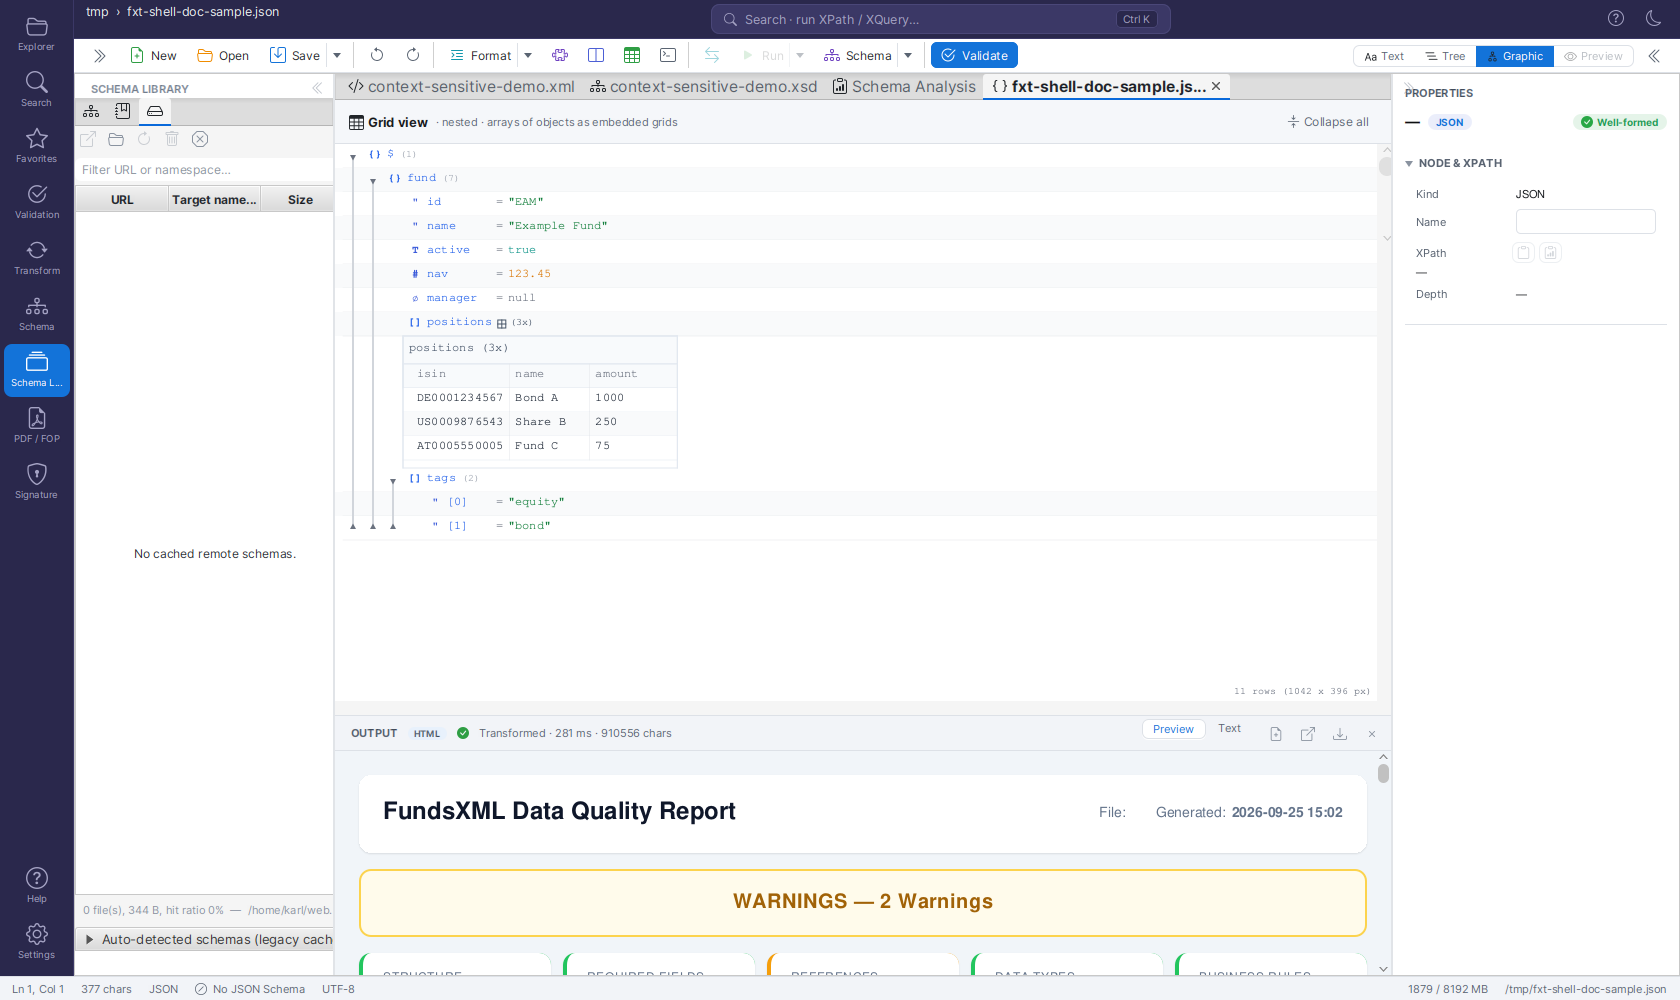
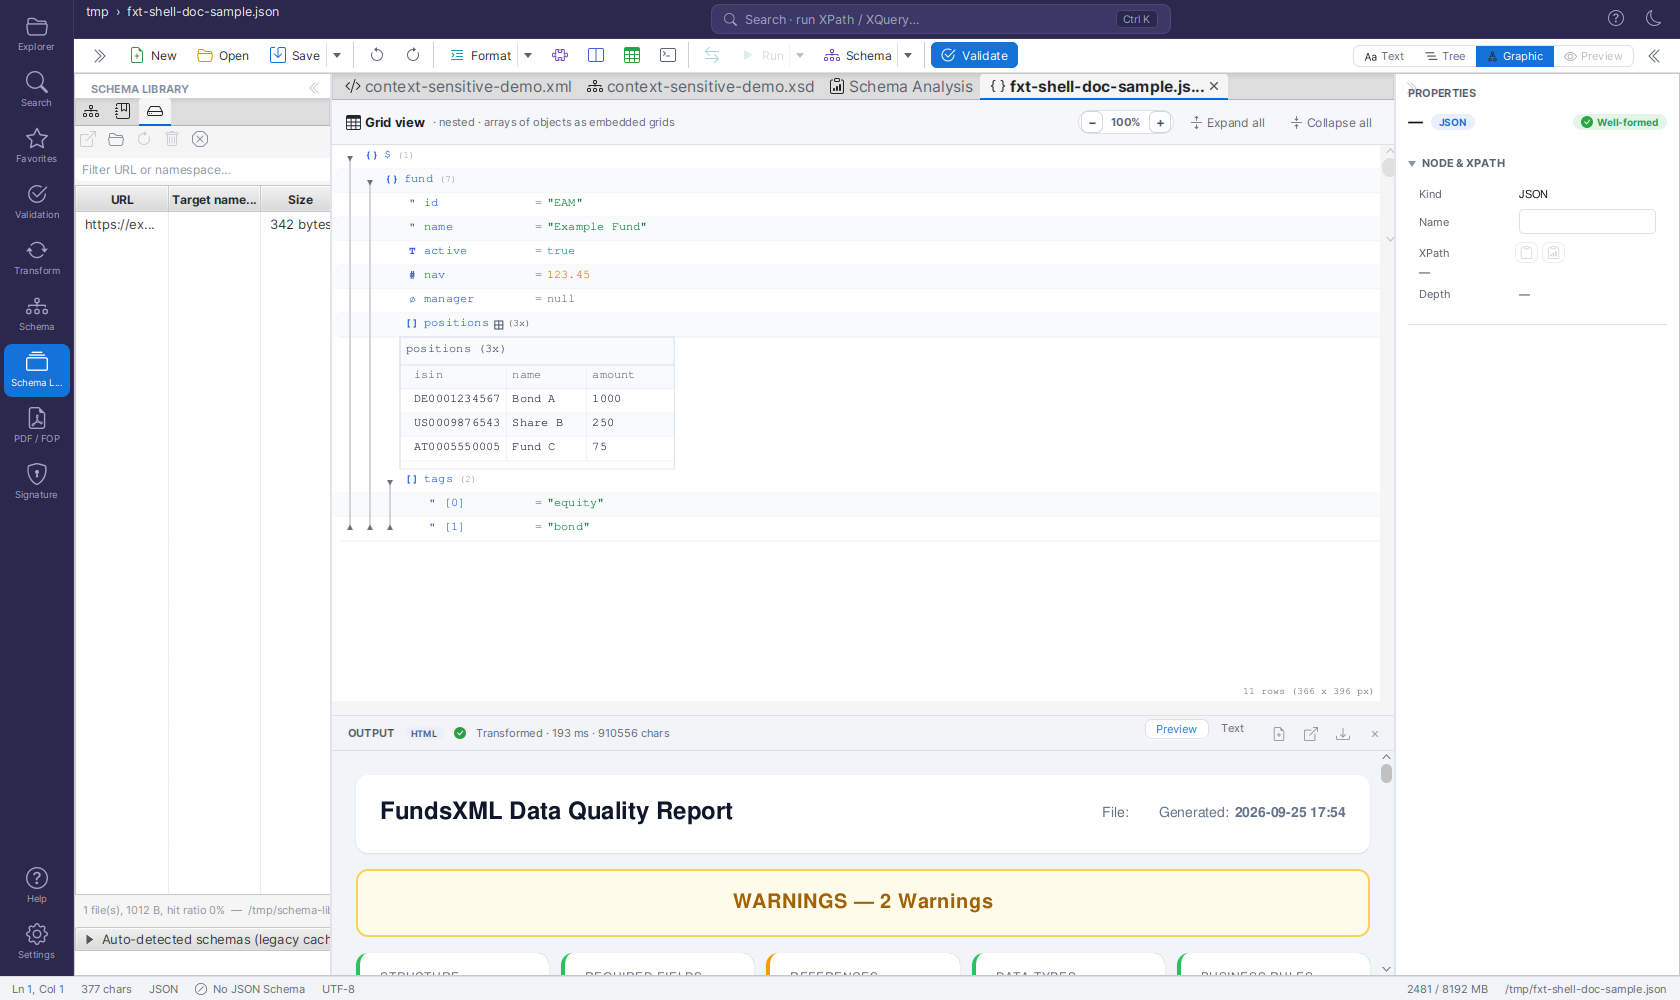
docs(grid): describe wrapping, zoom, Expand all and column resizing; fresh grid screenshots
The XML grid screenshot is now taken with every container expanded so the
embedded grids and wrapped values are visible.

diff --git a/src/test/java/org/fxt/freexmltoolkit/screenshots/ShellDocScreenshotGenerator.java b/src/test/java/org/fxt/freexmltoolkit/screenshots/ShellDocScreenshotGenerator.java
@@ -332,6 +332,14 @@ class ShellDocScreenshotGenerator {
             settle();
             onFx(() -> host.setActiveViewMode(ViewMode.GRAPHIC));
             settle();
+            // Unfold everything so the embedded grids and wrapped values are visible. Other
+            // (inactive) grid tabs carry the same button id, so fire every one of them.
+            onFx(() -> host.lookupAll("#grid-expand-all").forEach(n -> {
+                if (n instanceof javafx.scene.control.Button expandAll) {
+                    expandAll.fire();
+                }
+            }));
+            settle();
             shot("unified-shell-xml-grid");
         }
 

diff --git a/docs/unified-shell.md b/docs/unified-shell.md
@@ -142,7 +142,19 @@ When an XML-instance document (XML, XSLT, or Schematron) is in the **Graphic** v
 shows the editable grid:
 
 - A **header strip** at the top reads *"Grid view · nested · repeating elements as embedded
-  grids"* and offers a **Collapse all** button that folds every container at once.
+  grids"* and offers the **zoom pill** (`− 100% +`), **Expand all** and **Collapse all**
+  buttons that unfold or fold every container at once.
+- **Nothing is cut off.** Cells and rows take the width their content needs; long values
+  **wrap** onto further lines (the row grows) instead of being shortened with "…". Very wide
+  content is reached with the horizontal scrollbar (Shift+wheel).
+- **Zoom** the whole grid - text, rows, icons and embedded tables - with **Ctrl+mouse wheel**,
+  **Ctrl +** / **Ctrl −** (10 % steps, 50-300 %) or the `−`/`+` buttons; **Ctrl 0** or a
+  click on the percentage resets to 100 %. The zoom factor is remembered across files, XML
+  and JSON grids and restarts.
+- **Column widths** in embedded grids size themselves to their content; drag a column
+  separator in the column-header row to resize a column (text re-wraps to the new width),
+  and **double-click the separator** to return to automatic sizing. Dragged widths survive
+  edits and undo.
 - Rows with a simple value are marked with a **`{}`** marker so you can tell value rows from
   containers at a glance.
 - **Attributes always show** as `@name` rows directly beneath their element - also while the

diff --git a/docs/xml-editor.md b/docs/xml-editor.md
@@ -105,7 +105,13 @@ The grid provides:
 
 - **Table View**: Edit XML data in a spreadsheet-like interface
 - **Header Strip**: A header at the top ("Grid view · nested · repeating elements as embedded
-  grids") with a **Collapse all** button that folds every container at once
+  grids") with the zoom pill (`− 100% +`) and **Expand all** / **Collapse all** buttons
+- **Nothing Cut Off**: Cells grow to their content and long values wrap onto further lines
+  (the row grows) instead of being shortened with "…"
+- **Zoom**: `Ctrl`+mouse wheel or `Ctrl` `+` / `Ctrl` `−` zoom the whole grid (50-300 %),
+  `Ctrl` `0` resets; the factor is remembered across files and restarts
+- **Column Widths**: Drag a separator in an embedded grid's column-header row to resize a
+  column (text re-wraps); double-click the separator to return to automatic sizing
 - **Value Markers**: Rows with a simple value are marked with `{}`; collapsed containers show a
   "collapsed" hint
 - **Direct Cell Editing**: Click cells to edit values directly
@@ -412,7 +418,8 @@ Learn more: [Favorites System](favorites-system.md)
 | Ctrl+Shift+X | Toggle the Query Console |
 | Ctrl+E | XML/Excel converter |
 | Ctrl+T | Templates |
-| Ctrl+mouse wheel | Zoom the editor font (Ctrl+0 resets) |
+| Ctrl+mouse wheel | Zoom the editor font in the Text view, the whole grid in the Graphic view (Ctrl+0 resets) |
+| Ctrl++ / Ctrl+- | Graphic view: zoom the grid in / out |
 | F8 | Validate |
 | `<` | Open auto-completion |
 

diff --git a/docs/xml-editor-features.md b/docs/xml-editor-features.md
@@ -141,10 +141,16 @@ Changes made in any view are synchronized automatically.
 ### Reading the Grid
 
 - The **header strip** at the top reads *"Grid view · nested · repeating elements as embedded
-  grids"* and offers a **Collapse all** button that folds every container at once.
+  grids"* and offers the **zoom pill** (`− 100% +`) plus **Expand all** and **Collapse all**
+  buttons.
+- **Nothing is truncated**: cells grow to their content, long values wrap onto more lines and
+  the row grows with them.
+- **Zoom** the grid with **Ctrl+mouse wheel** or **Ctrl +/−** (**Ctrl 0** resets); the factor
+  is remembered for all grids.
 - Rows holding a simple value are marked with **`{}`**.
 - Collapsed containers show a **"collapsed"** hint so you know there is hidden content.
-- Repeating elements appear as **embedded grids** - small tables nested inside the row.
+- Repeating elements appear as **embedded grids** - small tables nested inside the row. Drag a
+  column separator in the column-header row to resize a column; double-click it to auto-fit.
 
 ---
 
